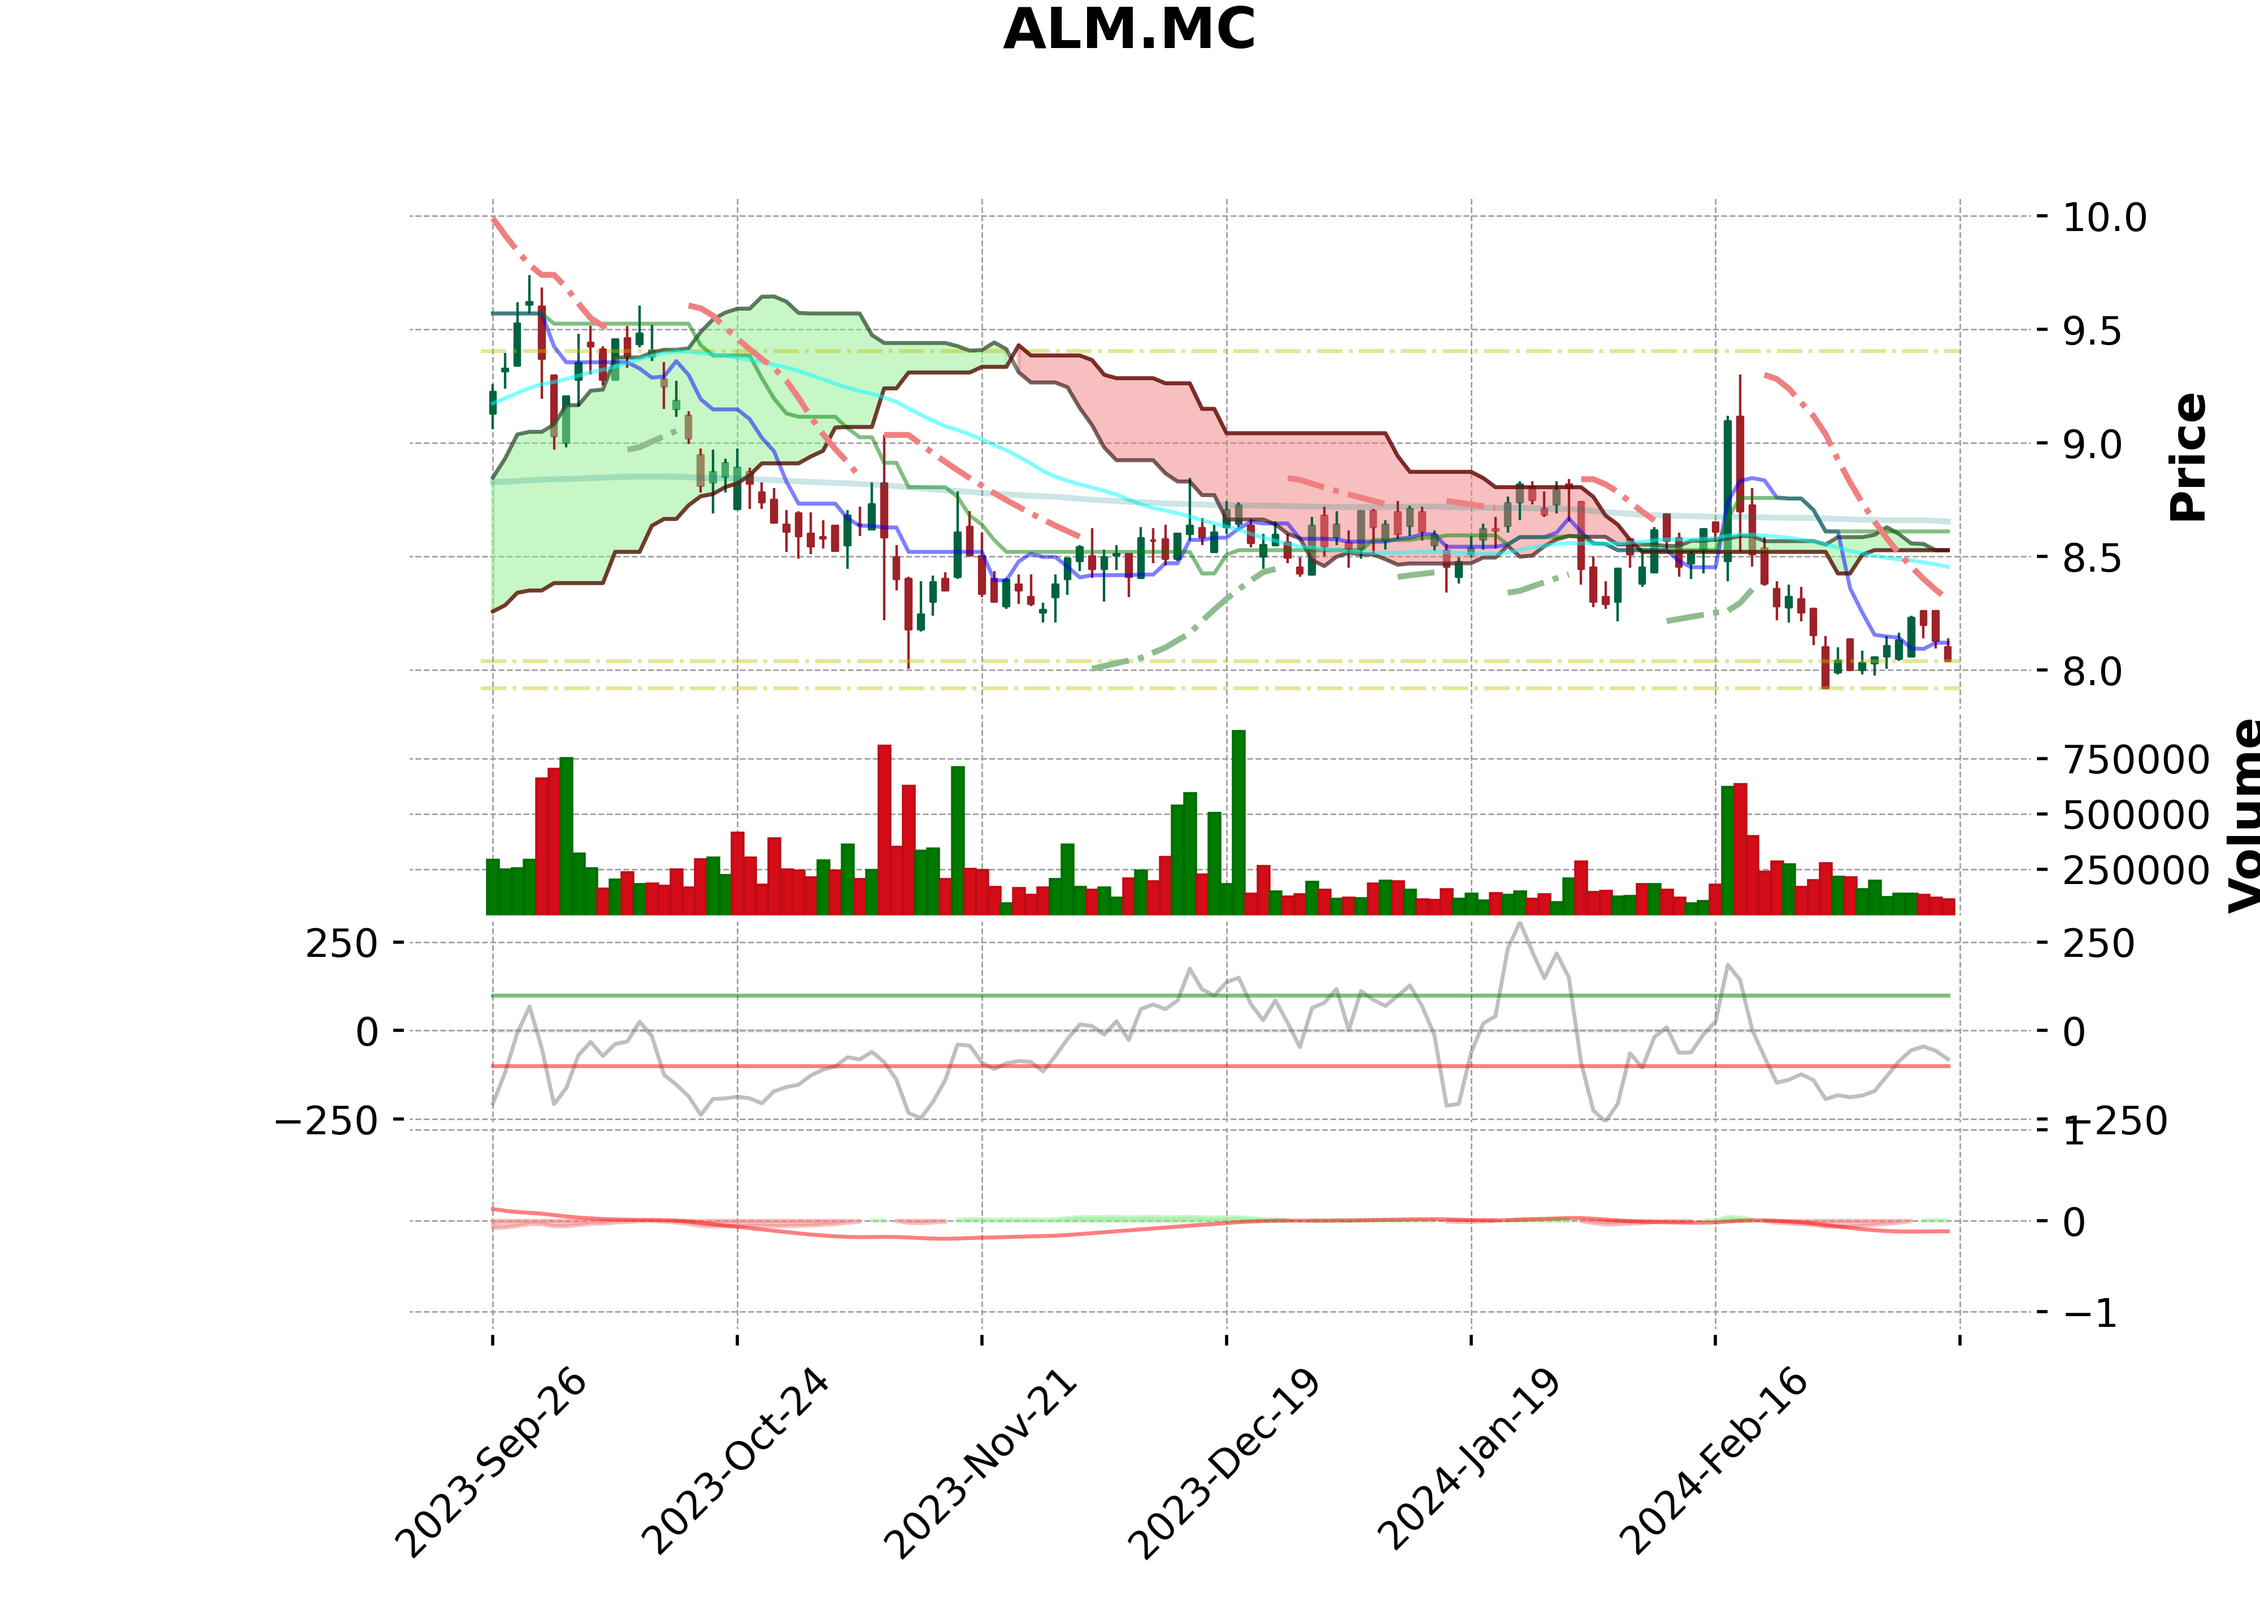
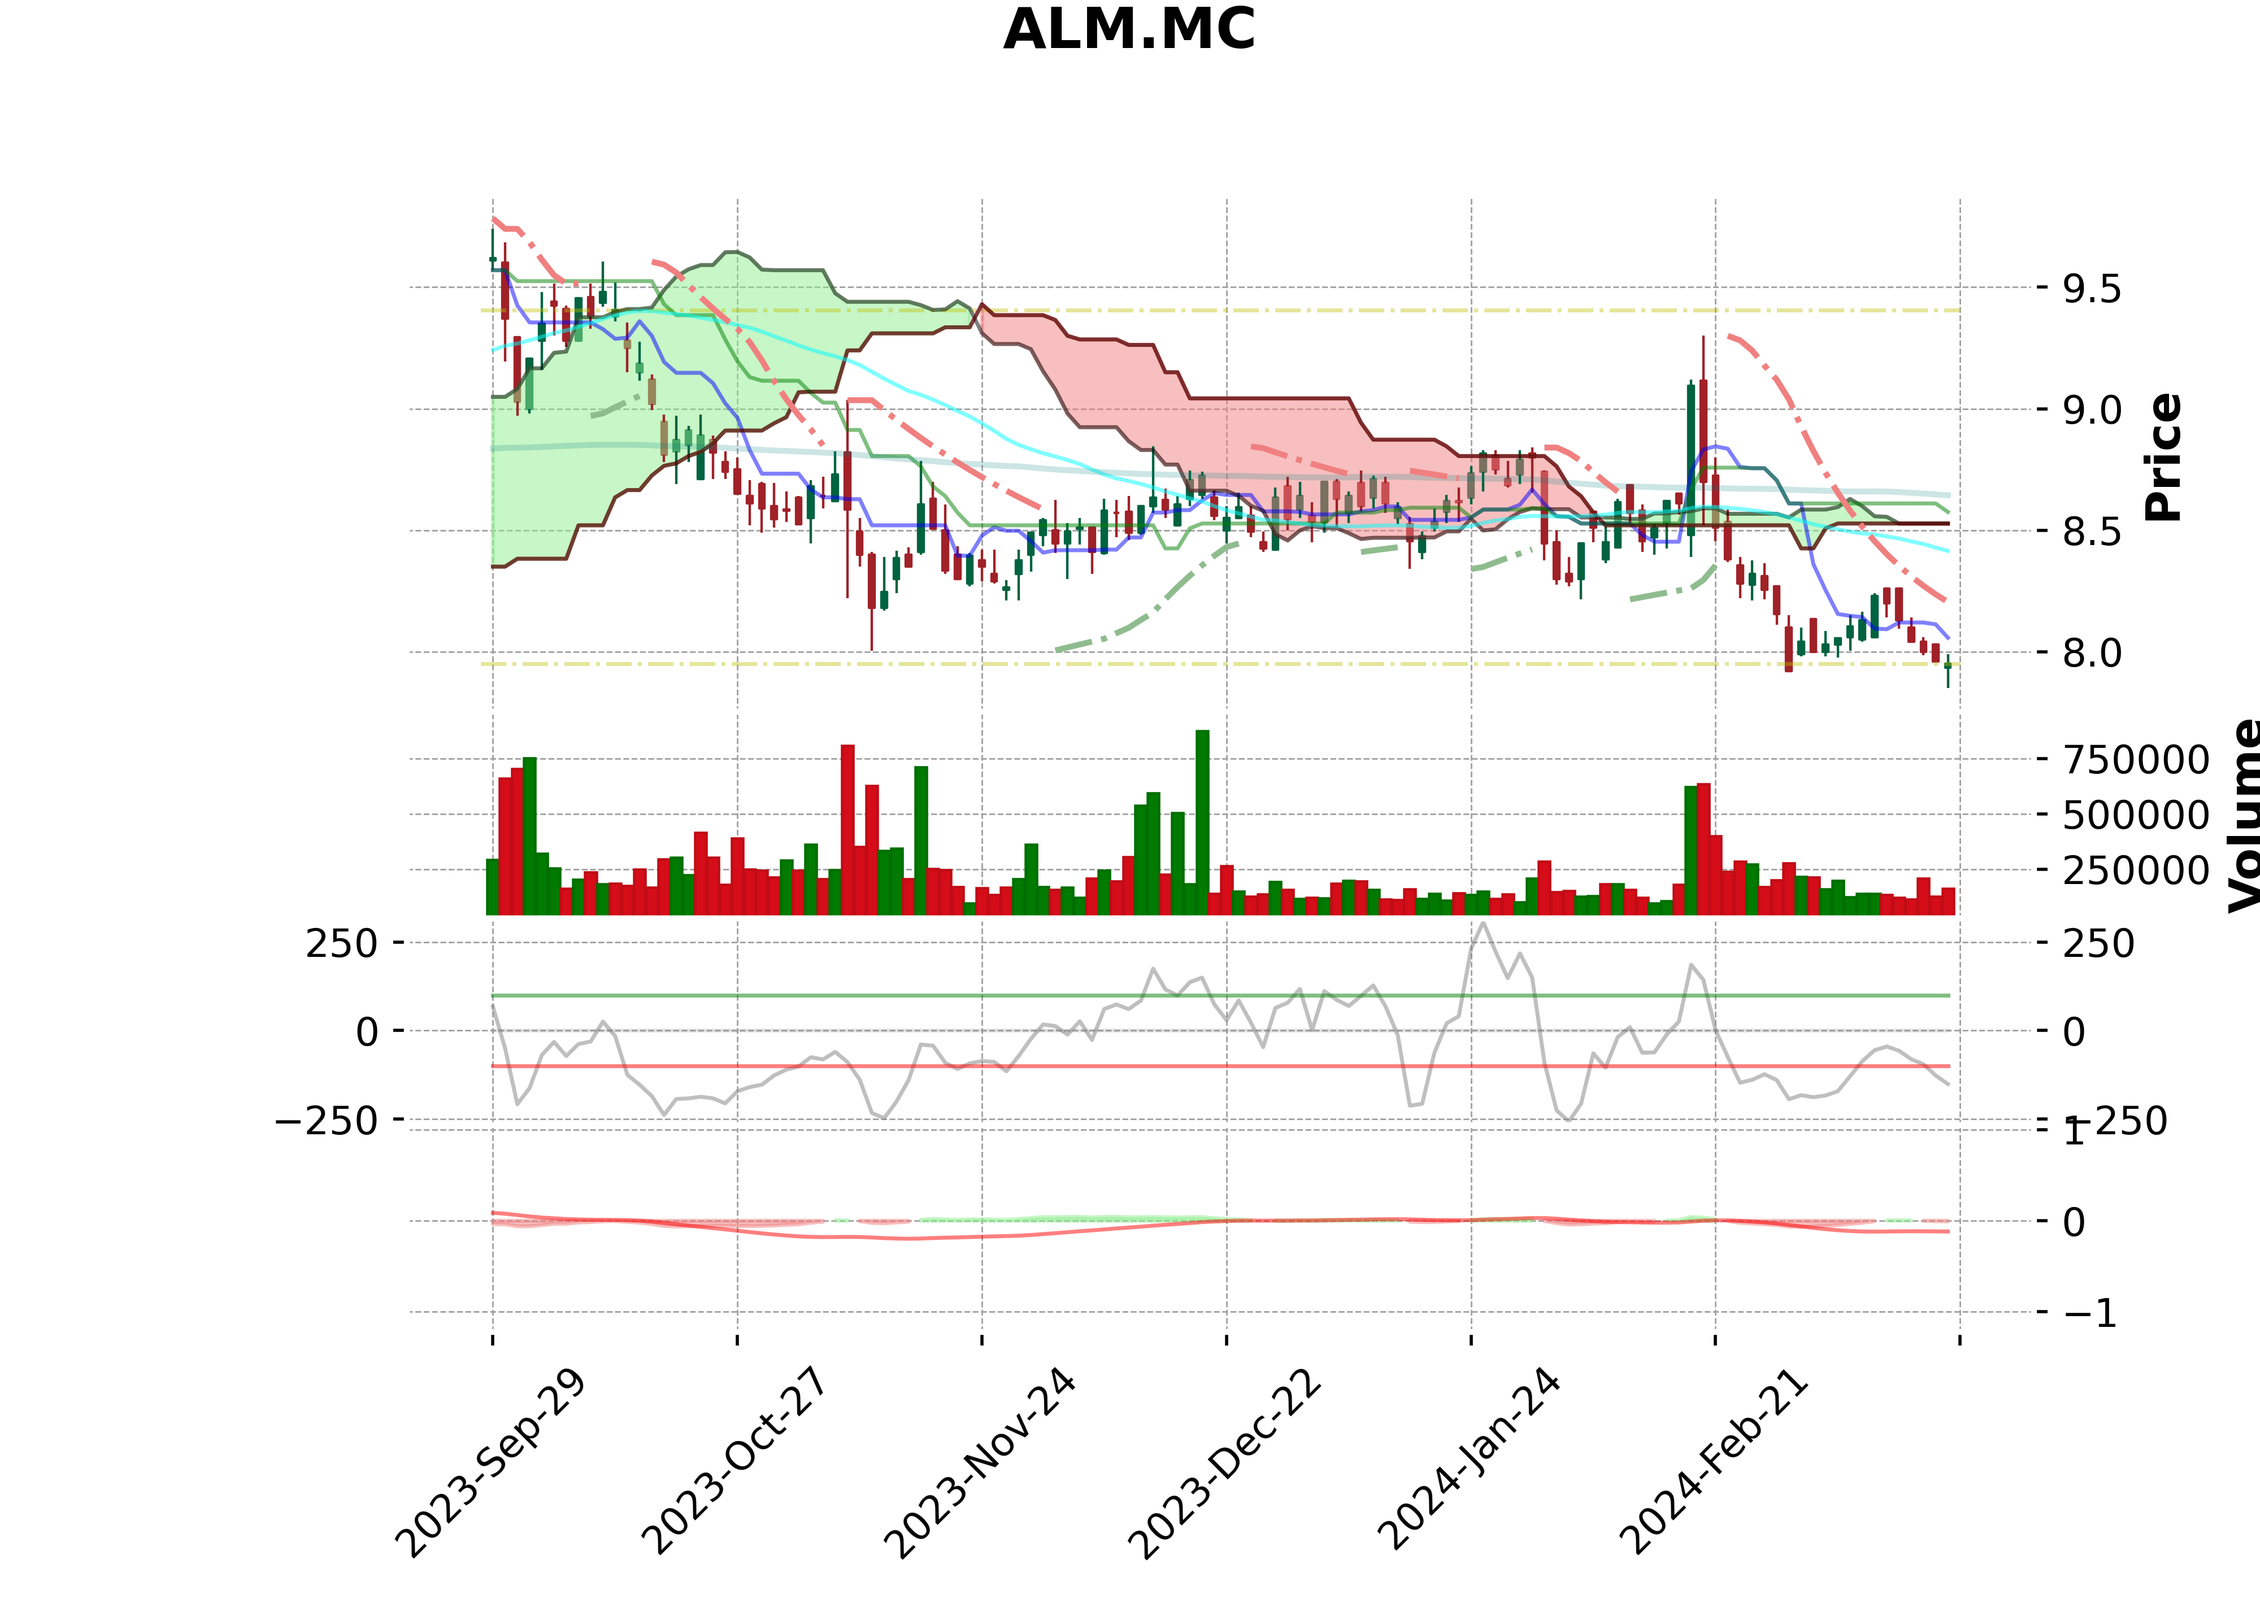
2024-03-19-mercado-continuo.m

diff --git a/_posts/2024-03-19-mercado-continuo.md b/_posts/2024-03-19-mercado-continuo.md
@@ -1,12 +1,12 @@
 ---
 title: Mercado Continuo
 author: jubapa
-date: 2024-03-14 00:10:00 +0800
+date: 2024-03-19 00:10:00 +0800
 categories: [Blogging, Finance, MC]
 tags: [finance]
 ---
 
-## 2024-03-14
+## 2024-03-19
 
 Checking ['ANA.MC', 'ANE.MC', 'ACX.MC', 'ACS.MC', 'ADZ.MC', 'AEDAS.MC', 'AENA.MC', 'AIR.MC', 'AI.MC', 'ALNT.MC', 'ALM.MC', 'AMS.MC', 'AMP.MC', 'EAT.MC', 'APAM.MC', 'APPS.MC', 'MTS.MC', 'ARM.MC', 'A3M.MC', 'ATRY.MC', 'ADX.MC', 'AZK.MC', 'BBVA.MC', 'SAB.MC', 'SAN.MC', 'BKT.MC', 'BKY.MC', 'RIO.MC', 'BAIN.MC', 'CABK.MC', 'CLNX.MC', 'CEV.MC', 'CIE.MC', 'CLEO.MC', 'CCEP.MC', 'CAF.MC', 'ALB.MC', 'CAM.MC', 'OLE.MC', 'DESA.MC', 'DIA.MC', 'MDF.MC', 'EBRO.MC', 'ENER.MC', 'EDR.MC', 'ENO.MC', 'ENG.MC', 'ENC.MC', 'ELE.MC', 'ECR.MC', 'FAE.MC', 'FER.MC', 'FDR.MC', 'FCC.MC', 'GAM.MC', 'GEST.MC', 'DOM.MC', 'GRE.MC', 'GCO.MC', 'CBAV.MC', 'GSJ.MC', 'EZE.MC', 'IAG.MC', 'IBE.MC', 'IBG.MC', 'ITX.MC', 'IDR.MC', 'COL.MC', 'ISUR.MC', 'ROVI.MC', 'RJF.MC', 'LRE.MC', 'LIB.MC', 'LDA.MC', 'LGT.MC', 'LOG.MC', 'MAP.MC', 'MEL.MC', 'MRL.MC', 'MVC.MC', 'MFEA.MC', 'MCM.MC', 'MTB.MC', 'NTGY.MC', 'NTH.MC', 'HOME.MC', 'NHH.MC', 'NEA.MC', 'NXT.MC', 'NYE.MC', 'OHLA.MC', 'OPDE.MC', 'ORY.MC', 'PVA.MC', 'PHM.MC', 'PRM.MC', 'PRS.MC', 'CASH.MC', 'PSG.MC', 'RLIA.MC', 'RED.MC', 'R4.MC', 'REN.MC', 'REP.MC', 'SCYR.MC', 'ISE.MC', 'SLR.MC', 'SOL.MC', 'SQRL.MC', 'TLGO.MC', 'TRE.MC', 'TEF.MC', 'TUB.MC', 'TRG.MC', 'UNI.MC', 'UBS.MC', 'VID.MC', 'VIS.MC']
 
@@ -17,10 +17,7 @@ Checking ['ANA.MC', 'ANE.MC', 'ACX.MC', 'ACS.MC', 'ADZ.MC', 'AEDAS.MC', 'AENA.MC
 
 | Date       |   Close |   Percentage |
 |:-----------|--------:|-------------:|
-| 2024-02-29 |   7.92  |   nan        |
-| 2024-03-01 |   8.04  |     1.49254  |
-| 2024-03-04 |   8     |    -0.5      |
-| 2024-03-05 |   8.03  |     0.373596 |
+| 2024-03-05 |   8.03  |   nan        |
 | 2024-03-06 |   8.055 |     0.310373 |
 | 2024-03-07 |   8.105 |     0.616894 |
 | 2024-03-08 |   8.13  |     0.30751  |
@@ -28,39 +25,39 @@ Checking ['ANA.MC', 'ANE.MC', 'ACX.MC', 'ACS.MC', 'ADZ.MC', 'AEDAS.MC', 'AENA.MC
 | 2024-03-12 |   8.2   |    -0.36585  |
 | 2024-03-13 |   8.13  |    -0.861005 |
 | 2024-03-14 |   8.04  |    -1.1194   |
+| 2024-03-15 |   8     |    -0.5      |
+| 2024-03-18 |   7.96  |    -0.502512 |
+| 2024-03-19 |   7.95  |    -0.125789 |
 
 ![ALM.MC](/assets/img/stocks/ALM.png){: w="700" h="400" .w-75 .normal}
 _ALM.MC_
 
-### STOCK CIE.MC
-<https://finance.yahoo.com/quote/CIE.MC>
+### STOCK GCO.MC
+<https://finance.yahoo.com/quote/GCO.MC>
 
 | Date       |   Close |   Percentage |
 |:-----------|--------:|-------------:|
-| 2024-02-29 |   24.62 |   nan        |
-| 2024-03-01 |   24.86 |     0.965405 |
-| 2024-03-04 |   24.82 |    -0.161164 |
-| 2024-03-05 |   24.64 |    -0.730521 |
-| 2024-03-06 |   24.98 |     1.36109  |
-| 2024-03-07 |   25.3  |     1.26482  |
-| 2024-03-08 |   25.2  |    -0.396819 |
-| 2024-03-11 |   24.9  |    -1.20482  |
-| 2024-03-12 |   25    |     0.400002 |
-| 2024-03-13 |   25.14 |     0.556879 |
-| 2024-03-14 |   24.9  |    -0.963855 |
+| 2024-03-05 |   32.85 |   nan        |
+| 2024-03-06 |   32.55 |    -0.921657 |
+| 2024-03-07 |   32.8  |     0.762195 |
+| 2024-03-08 |   32.6  |    -0.613499 |
+| 2024-03-11 |   32.9  |     0.911863 |
+| 2024-03-12 |   33.2  |     0.903612 |
+| 2024-03-13 |   33.25 |     0.150374 |
+| 2024-03-14 |   33.4  |     0.449106 |
+| 2024-03-15 |   33.9  |     1.47493  |
+| 2024-03-18 |   34.1  |     0.586501 |
+| 2024-03-19 |   34.25 |     0.437961 |
 
-![CIE.MC](/assets/img/stocks/CIE.png){: w="700" h="400" .w-75 .normal}
-_CIE.MC_
+![GCO.MC](/assets/img/stocks/GCO.png){: w="700" h="400" .w-75 .normal}
+_GCO.MC_
 
 ### STOCK TEF.MC
 <https://finance.yahoo.com/quote/TEF.MC>
 
 | Date       |   Close |   Percentage |
 |:-----------|--------:|-------------:|
-| 2024-02-29 |   3.793 |  nan         |
-| 2024-03-01 |   3.822 |    0.758766  |
-| 2024-03-04 |   3.83  |    0.208875  |
-| 2024-03-05 |   3.834 |    0.104335  |
+| 2024-03-05 |   3.834 |  nan         |
 | 2024-03-06 |   3.841 |    0.182243  |
 | 2024-03-07 |   3.838 |   -0.0781663 |
 | 2024-03-08 |   3.846 |    0.208006  |
@@ -68,6 +65,29 @@ _CIE.MC_
 | 2024-03-12 |   3.871 |   -0.155     |
 | 2024-03-13 |   3.886 |    0.385998  |
 | 2024-03-14 |   3.87  |   -0.413438  |
+| 2024-03-15 |   3.917 |    1.1999    |
+| 2024-03-18 |   3.898 |   -0.487431  |
+| 2024-03-19 |   3.901 |    0.0769039 |
 
 ![TEF.MC](/assets/img/stocks/TEF.png){: w="700" h="400" .w-75 .normal}
 _TEF.MC_
+
+### STOCK VIS.MC
+<https://finance.yahoo.com/quote/VIS.MC>
+
+| Date       |   Close |   Percentage |
+|:-----------|--------:|-------------:|
+| 2024-03-05 |    56.9 |   nan        |
+| 2024-03-06 |    56.5 |    -0.707967 |
+| 2024-03-07 |    57.2 |     1.22378  |
+| 2024-03-08 |    57.6 |     0.69444  |
+| 2024-03-11 |    57.9 |     0.51814  |
+| 2024-03-12 |    58.2 |     0.515463 |
+| 2024-03-13 |    59   |     1.35593  |
+| 2024-03-14 |    58.4 |    -1.02739  |
+| 2024-03-15 |    58.9 |     0.848896 |
+| 2024-03-18 |    58.8 |    -0.170072 |
+| 2024-03-19 |    58   |    -1.37931  |
+
+![VIS.MC](/assets/img/stocks/VIS.png){: w="700" h="400" .w-75 .normal}
+_VIS.MC_
